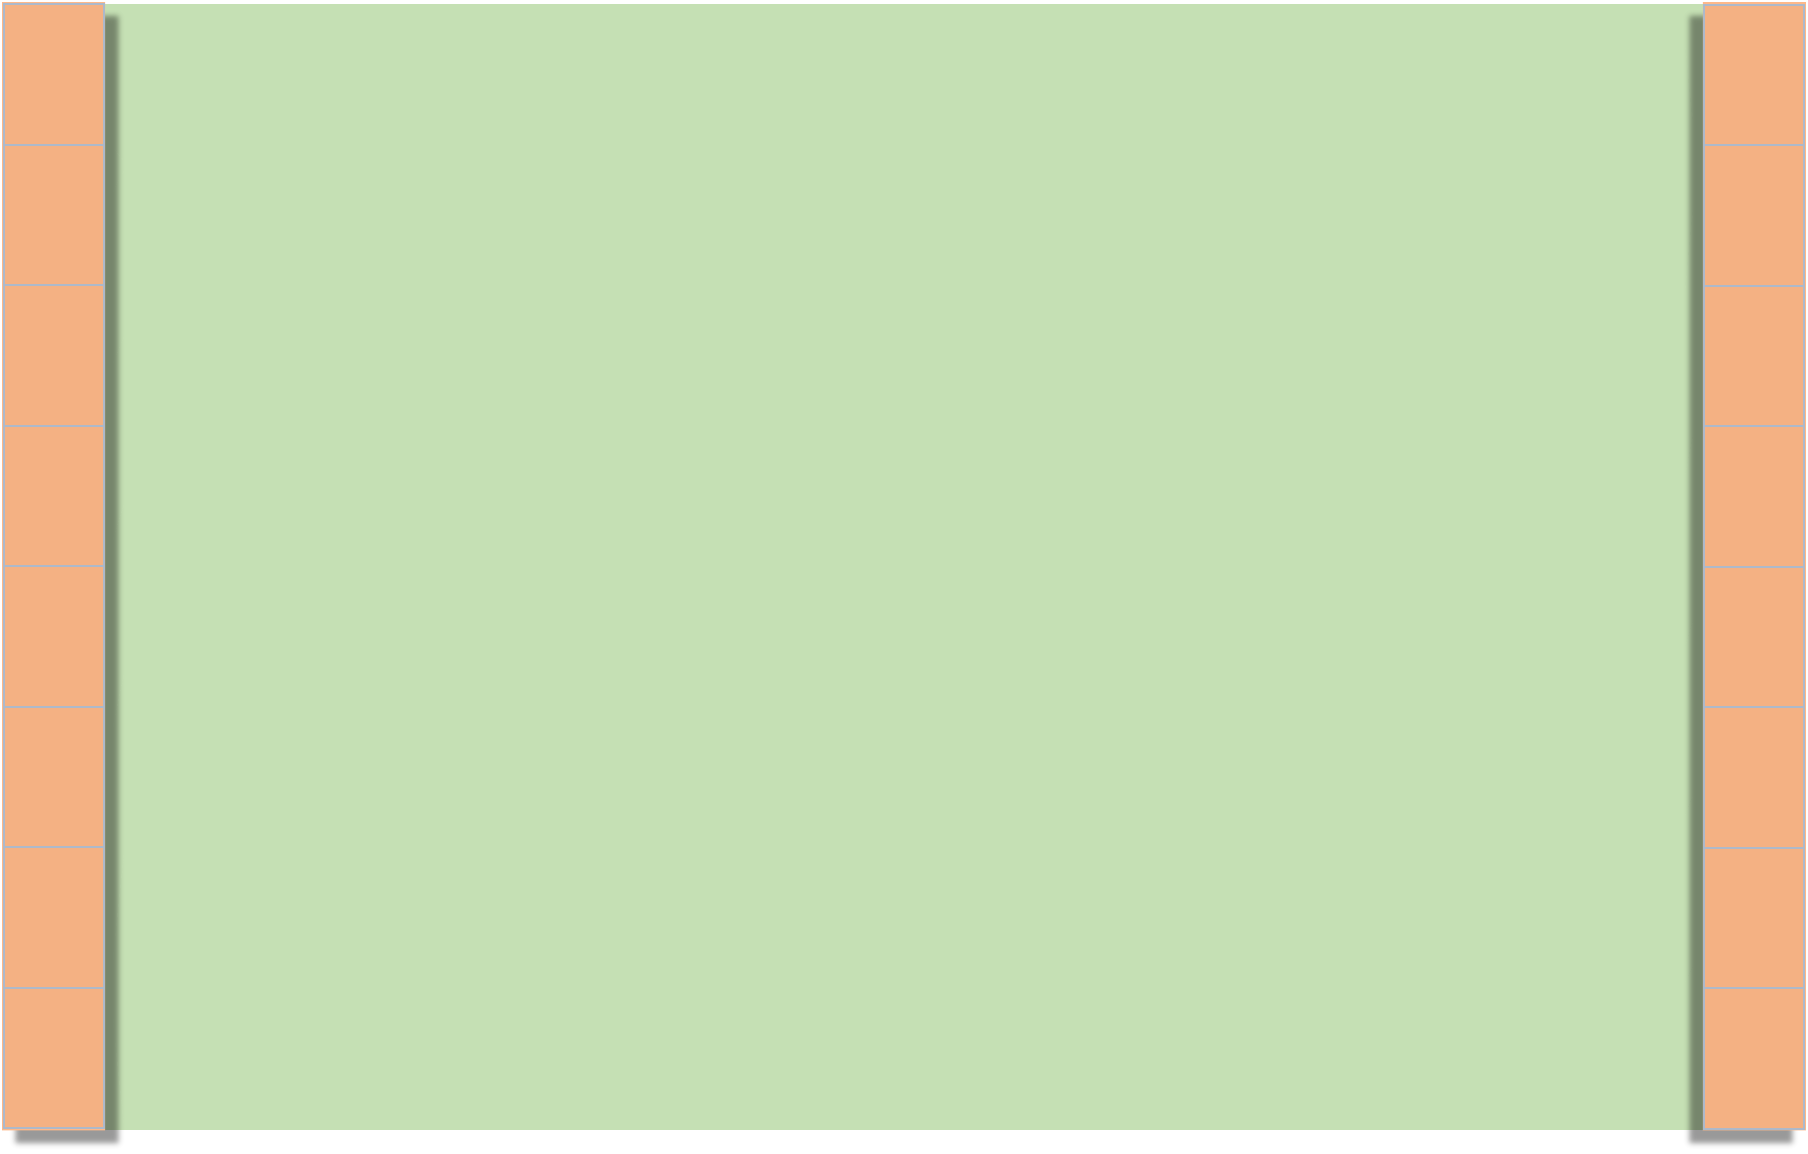
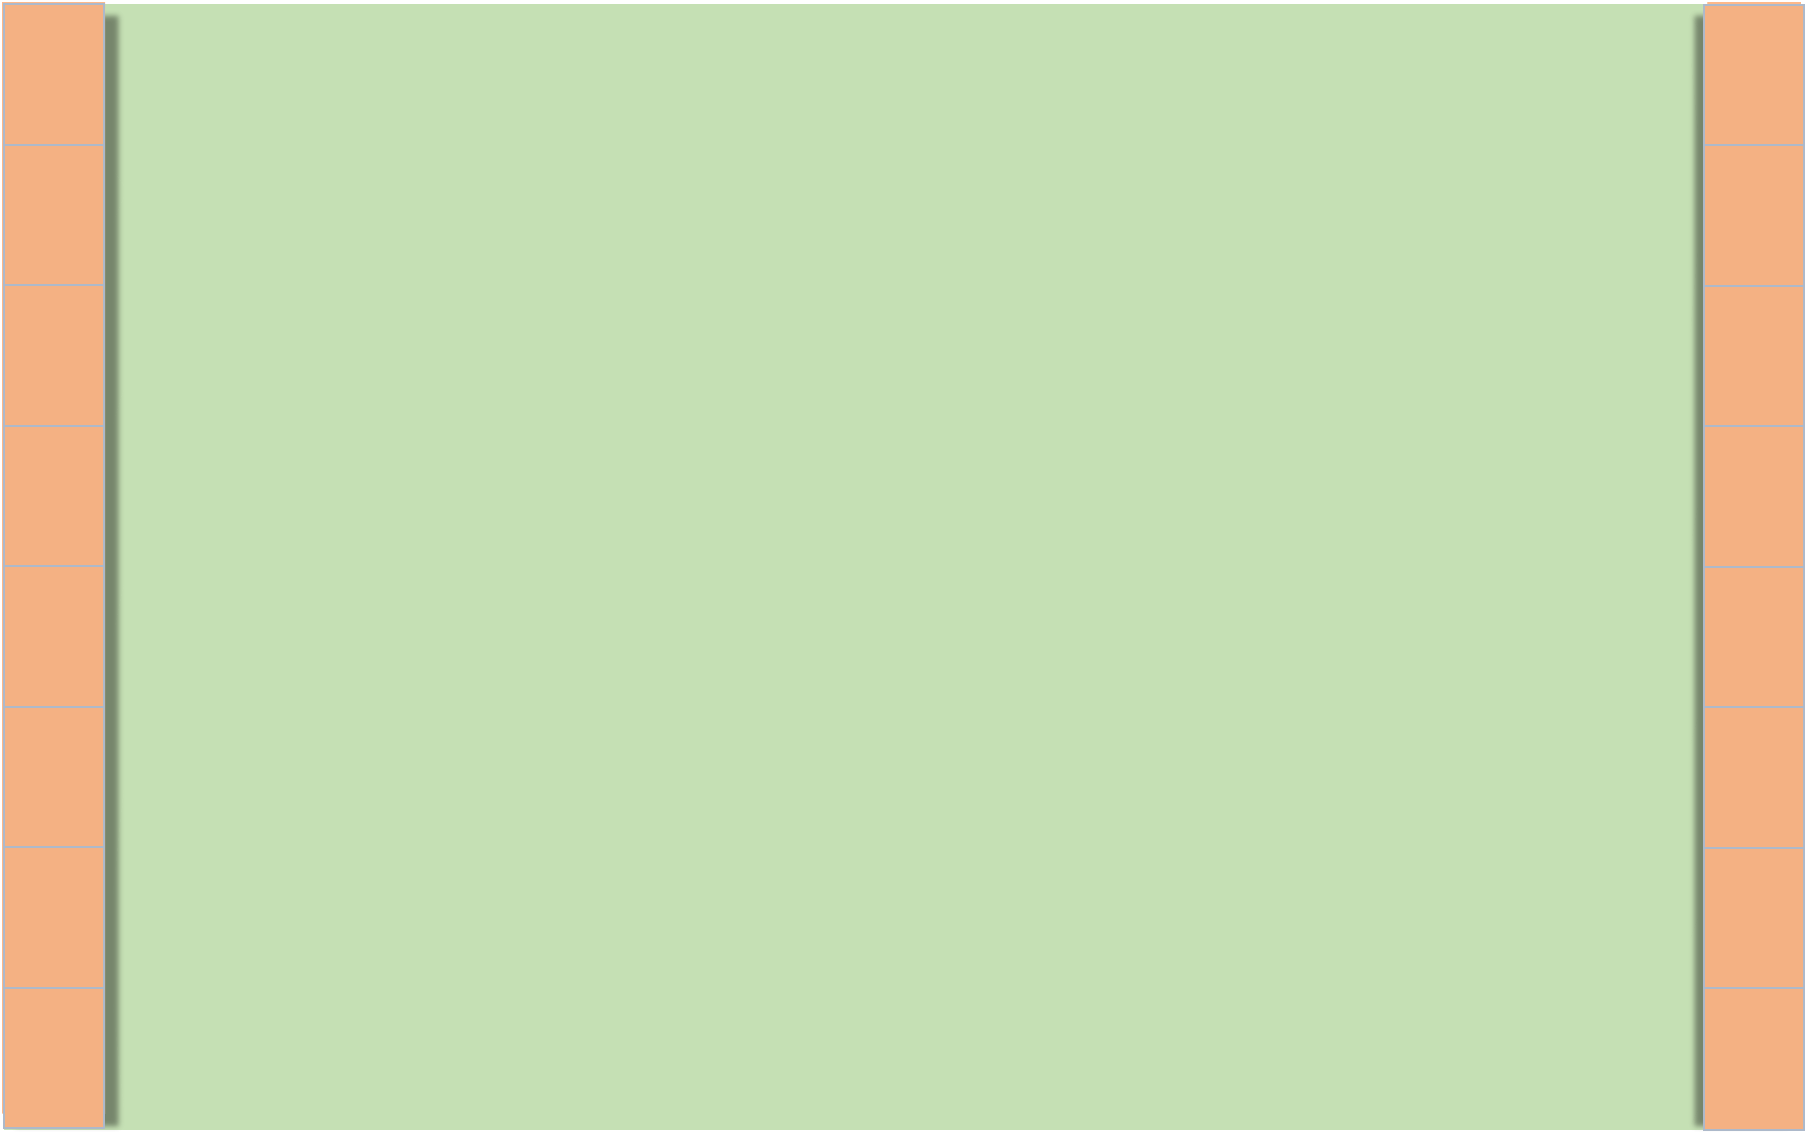
残り時間を追加

Changed region(s): [[0.0, 0.0, 1.0, 1.0], [0.0, 0.2463, 0.031, 0.277], [0.0, 0.1231, 0.031, 0.1539]]

diff --git a/core/src/com/mygdx/game/play/PlayScreen.java b/core/src/com/mygdx/game/play/PlayScreen.java
@@ -3,12 +3,14 @@ package com.mygdx.game.play;
 import com.badlogic.gdx.Gdx;
 import com.badlogic.gdx.ScreenAdapter;
 import com.badlogic.gdx.graphics.Texture;
+import com.badlogic.gdx.graphics.g2d.BitmapFont;
 import com.badlogic.gdx.graphics.g2d.TextureRegion;
 import com.badlogic.gdx.scenes.scene2d.Stage;
 import com.badlogic.gdx.scenes.scene2d.ui.Table;
 import com.badlogic.gdx.scenes.scene2d.ui.TextButton;
 import com.mygdx.game.item.Config;
 import com.mygdx.game.main.Shisen;
+import com.mygdx.game.title.TitleScreen;
 
 /**
  * ゲーム画面。
@@ -18,13 +20,15 @@ import com.mygdx.game.main.Shisen;
 
 public class PlayScreen extends ScreenAdapter {
     String TAG = PlayScreen.class.getSimpleName();
+    long start;
+    float time;
     Stage stage;
     Table playTable;
     TextButton titleButton;
     TextButton resultButton;
     PlayEnvironment env;
-
     Texture background;
+    BitmapFont font;
 
     public PlayScreen(Shisen game, String mode) {
         Gdx.app.log(TAG, "Constructor in Play");
@@ -35,8 +39,14 @@ public class PlayScreen extends ScreenAdapter {
         resultButton = env.getResultButton();
         // 牌テーブル読み込み
         playTable = env.table;
-
+        // 背景
         background = Config.getBackground("image/playback.png");
+        // 時間
+        font = new BitmapFont();
+        font.getRegion().getTexture().setFilter(Texture.TextureFilter.Linear, Texture.TextureFilter.Linear);
+//        font.setColor(0,0,0,1);
+        font.getData().setScale(3);
+        start = System.currentTimeMillis();
     }
 
     @Override
@@ -52,11 +62,16 @@ public class PlayScreen extends ScreenAdapter {
 
     @Override
     public void render(float delta) {
+        time = 100f - (System.currentTimeMillis() - start) / 1000f;
+        if(time < 0) {
+            env.game.setScreen(new TitleScreen(env.game));
+        }
         Config.drawRoutine();
         // 描画処理
         Config.batcher.disableBlending();
         Config.batcher.begin();
         Config.batcher.draw(background, 0, 0, 1280, 800);
+        font.draw(Config.batcher, String.format("time %1$.3f",time), 100f,Config.SCRN_HEIGHT - 10f);
         Config.batcher.end();
         Config.batcher.enableBlending();
         Config.batcher.begin();

diff --git a/core/src/com/mygdx/game/result/ResultScreen.java b/core/src/com/mygdx/game/result/ResultScreen.java
@@ -32,7 +32,7 @@ public class ResultScreen extends ScreenAdapter {
         resultTitle = env.getModeLabel();
         goTitle = env.getTitleButton();
         goRanking = env.getRankingButton();
-        background = new TextureRegion(Config.getBackground("image/resultback2.png"));
+        background = new TextureRegion(Config.getBackground("image/resultback3.png"));
     }
 
     @Override
